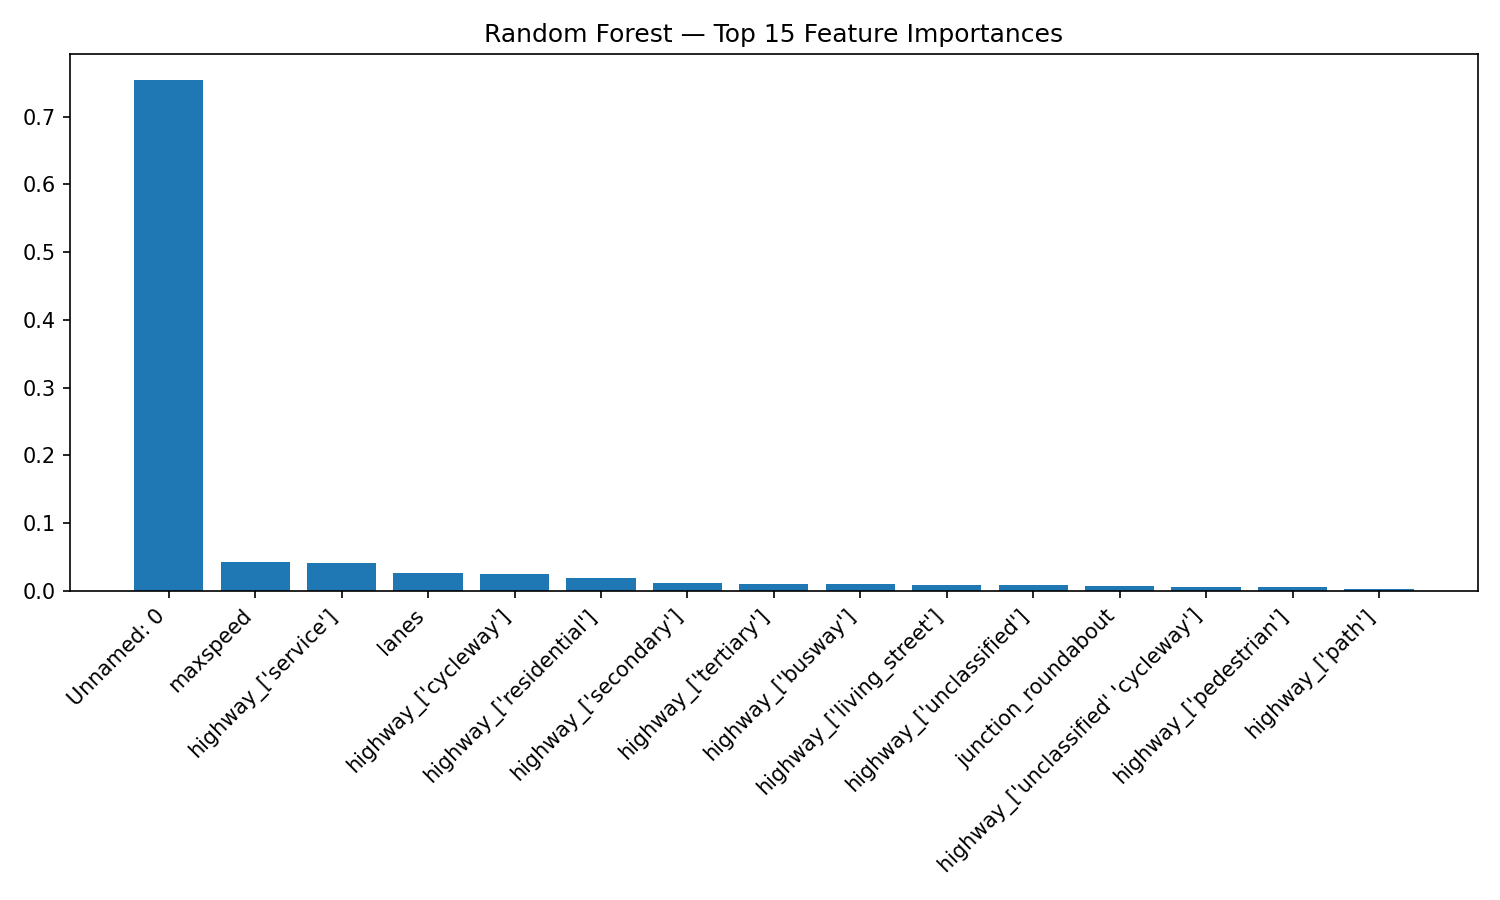
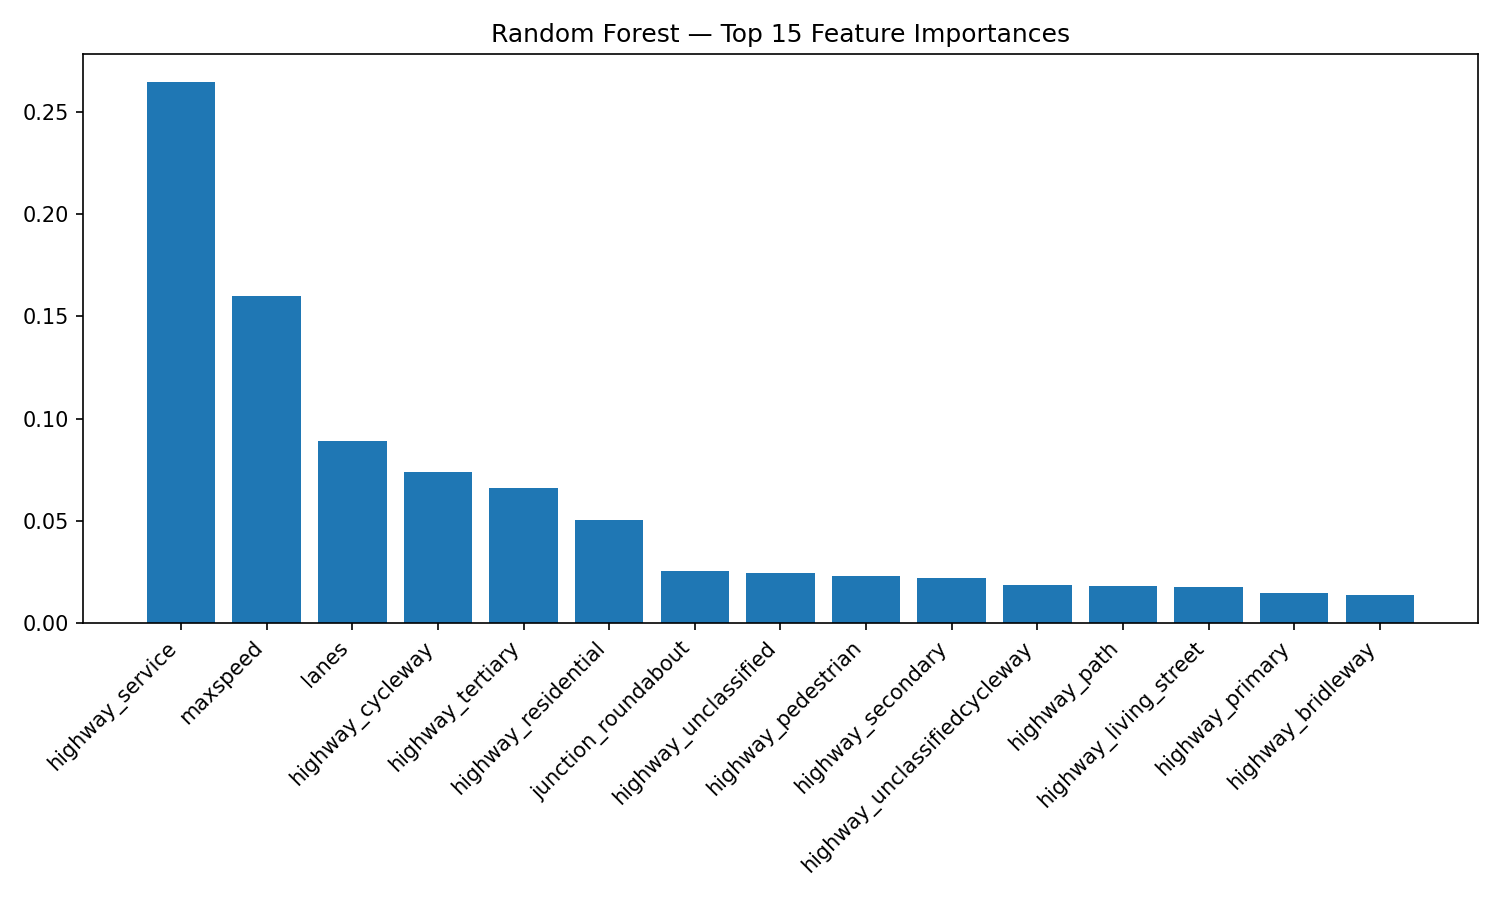
temp notes on shap plot

diff --git a/README.md b/README.md
@@ -1,3 +1,5 @@
+# CycloSafe
+
 ## Setup:
 
 use the following commands to create the conda environment: 
@@ -6,3 +8,18 @@ use the following commands to create the conda environment:
 conda env create -f environment.yml
 conda activate cyclosafe
 ```
+
+## Temp notes on plots
+
+### shap plot
+
+- each dot in plot represents one road semgent
+- horizontal position = how strongly that feature pushed predicted risk score up (right) or down (left)
+- dot color = segments actual feature value (e.g. for cycleways: red = 1 -> segment is cycleway, blue = 0 -> segment is not a cycleway)
+
+Findings:
+- highway_cycleway has many dots to the right, cycleways are associated with higher predicted risk, makes sense since there is more cycling in general
+- junction_roundabout has one red dot at -0.45, being roundabout = very low predicted risk, makes sense since dutch roundabout separates cyclists from cars (safe)
+- highway_tertiary has strongest positve val (0.15), signals strongest risk push, maybe because moderate speed with cars and bikes mixed -> dangerous
+- highway_service has widest overall spread -> affects more segments than any other feature, but per-segment influence is weak
+- violet dots in maxspeed: segments have medium speed limit, neither highest nor lowest in dataset -> present but maybe unreliable 